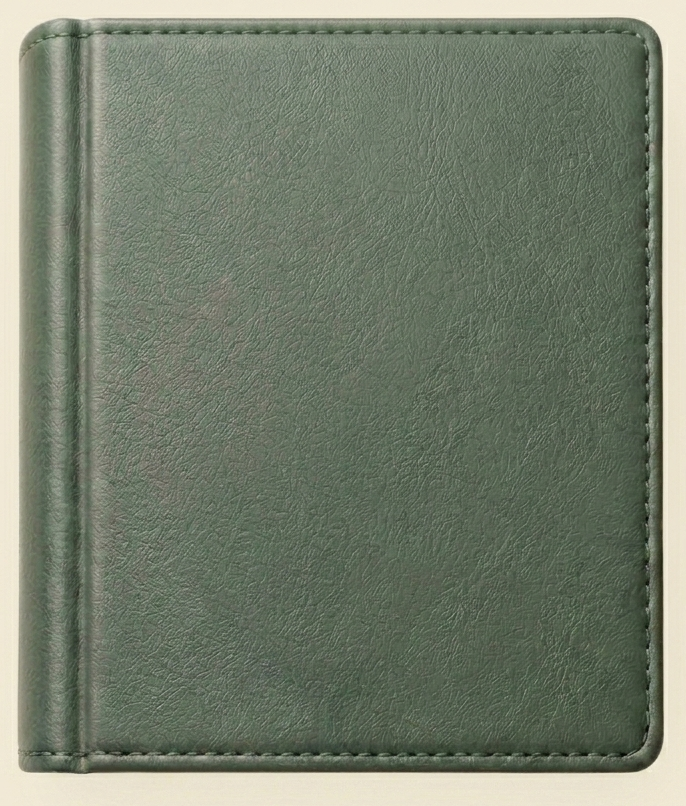
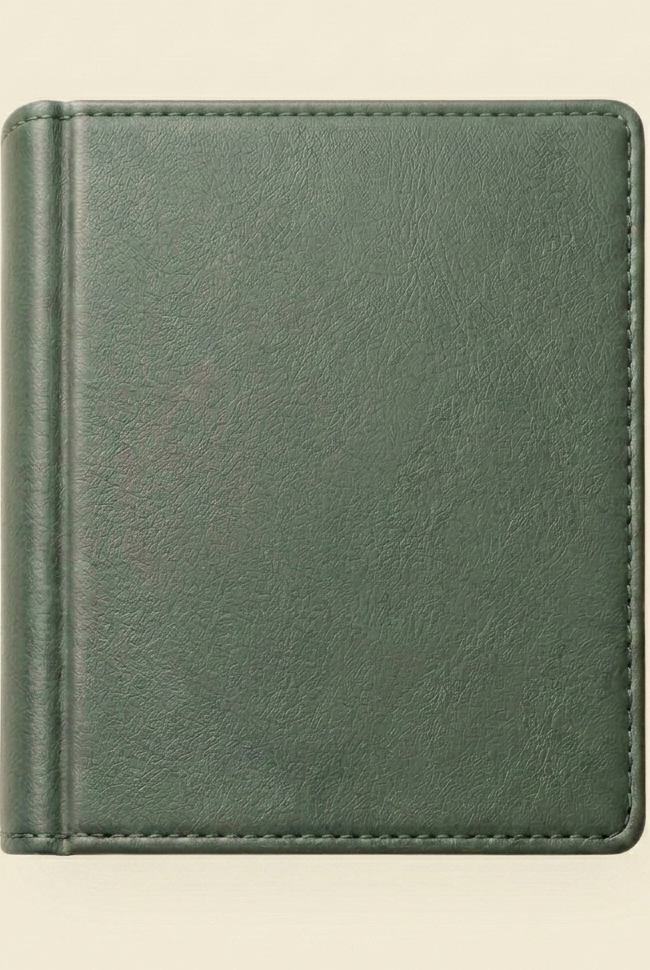
Scale the generic cover to match real thumbnail dimensions on the shelf
The generic cover was rendering visibly smaller than real book covers:
its source photo's own proportions (a flat-lay shot, ~0.85 width/height)
were wider than the shelf's cover slot (0.67), so even with the same
BoxFit.contain real thumbnails use, it appeared narrower with empty
side margins.

- Re-crop the source asset to the shelf's own 0.67 aspect ratio
  (extending into the surrounding background, well clear of the
  watermark) so it fills the slot edge-to-edge exactly like a real
  cover, rather than shrinking the image itself.
- Switch GenericBookCover from BoxFit.cover to BoxFit.contain, matching
  the fit mode BookOnShelf uses for real thumbnails.

Verified on-device: the generic cover now occupies the identical
footprint as a real cover in the shelf grid.

Claude-Session: https://claude.ai/code/session_01X34xc6hDmKAL3SSSQtgdor

diff --git a/mybooklog/test/widget/generic_book_cover_test.dart b/mybooklog/test/widget/generic_book_cover_test.dart
@@ -26,6 +26,25 @@ void main() {
       expect((image.image as AssetImage).assetName, GenericBookCover.assetPath);
     });
 
+    testWidgets('scales with BoxFit.contain, matching real cover thumbnails', (
+      tester,
+    ) async {
+      // BUSINESS LOGIC: BookOnShelf renders a real cover with
+      // BoxFit.contain so it fits within the shelf cell without being
+      // cropped; the generic cover must scale the same way so every
+      // book — real cover or not — occupies the same size on screen.
+      await tester.pumpWidget(
+        const MaterialApp(
+          home: Scaffold(
+            body: SizedBox(width: 100, height: 150, child: GenericBookCover()),
+          ),
+        ),
+      );
+
+      final image = tester.widget<Image>(find.byType(Image));
+      expect(image.fit, BoxFit.contain);
+    });
+
     testWidgets('clips to the given border radius', (tester) async {
       const radius = BorderRadius.all(Radius.circular(12));
       await tester.pumpWidget(

diff --git a/mybooklog/lib/src/features/bookshelf/widgets/generic_book_cover.dart b/mybooklog/lib/src/features/bookshelf/widgets/generic_book_cover.dart
@@ -11,8 +11,10 @@ import 'package:flutter/material.dart';
 ///
 /// TECHNICAL:
 /// A bundled asset image (assets/images/generic_book_cover.png), clipped
-/// to the same rounded-corner radius the real cover art uses so it sits
-/// in a shelf cell without looking out of place.
+/// to the same rounded-corner radius the real cover art uses, and scaled
+/// with the same [BoxFit.contain] fit BookOnShelf applies to real cover
+/// thumbnails — so it occupies exactly the same size within the shelf
+/// cell as any other book's cover, rather than being cropped to fill it.
 class GenericBookCover extends StatelessWidget {
   const GenericBookCover({
     super.key,
@@ -27,7 +29,7 @@ class GenericBookCover extends StatelessWidget {
   Widget build(BuildContext context) {
     return ClipRRect(
       borderRadius: borderRadius,
-      child: Image.asset(assetPath, fit: BoxFit.cover),
+      child: Image.asset(assetPath, fit: BoxFit.contain),
     );
   }
 }
